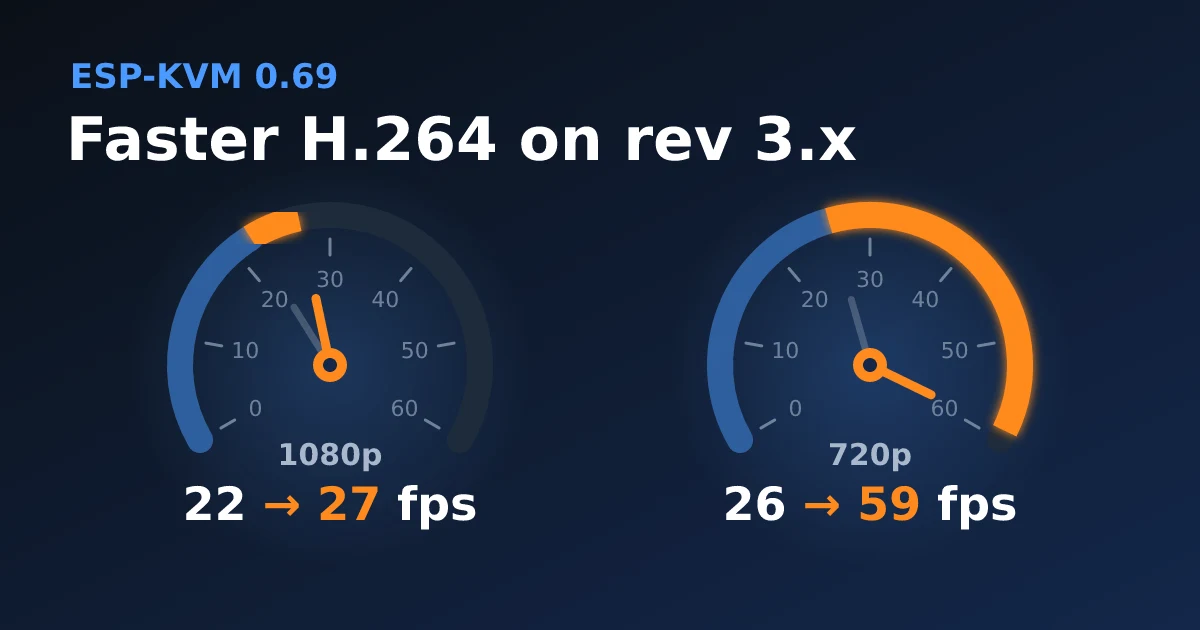
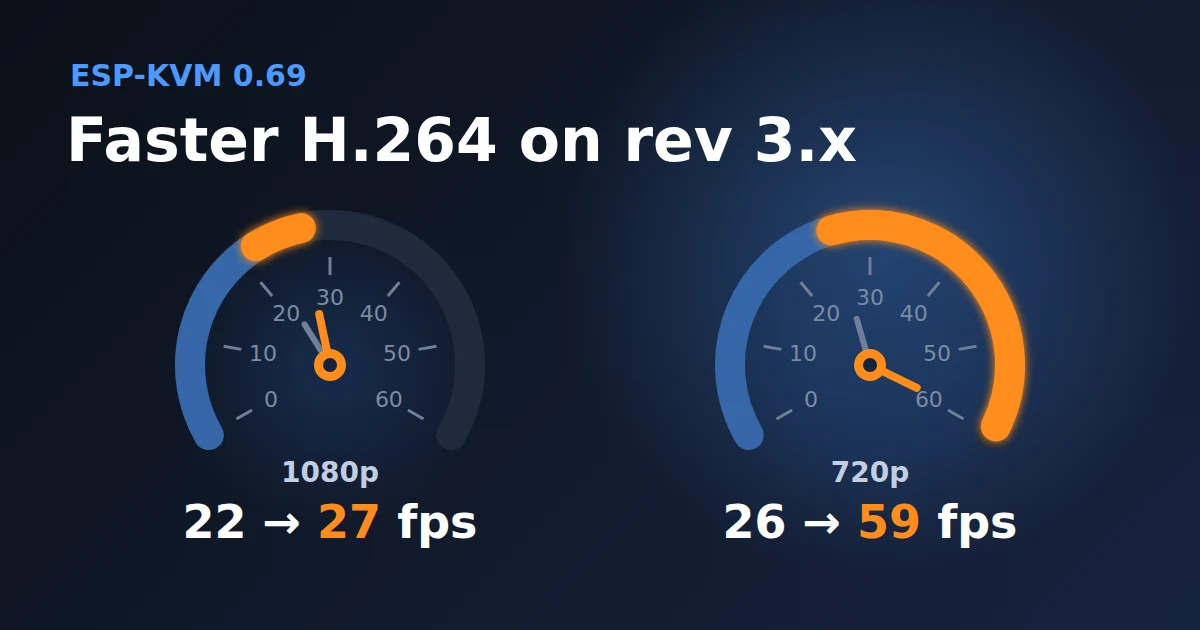
0.86.0 post, JetKVM Mini pages and cases, 0.69 hero redrawn

diff --git a/_pages/features.html b/_pages/features.html
@@ -124,7 +124,7 @@ output: features/index.html
         <tr><td>H.264 over WebRTC</td><td>The console takes H.264 over WebRTC (UDP) when it can, and over the WebSocket when it cannot. A lost packet then costs one frame instead of stalling the picture, which helps on Wi-Fi and mobile links. No STUN or TURN server, and it works over Tailscale.</td></tr>
         <tr><td>HDMI audio <span class="tag tag-new">new</span></td><td>The target's sound in the console, with the picture over WebRTC or on its own socket. On boards with a TC358743: three wires and a ground from the capture board to pins you pick.</td></tr>
         <tr><td>Sound over USB <span class="tag tag-new">new</span></td><td>For a board that cannot take the sound from HDMI, such as the JetKVM Mini: the target gets a USB speaker, "ESP-KVM Speaker", and what it plays comes to the console and the recordings.</td></tr>
-        <tr><td>VNC <span class="tag tag-new">new</span></td><td>The picture, keyboard and mouse in TigerVNC or Remmina, over TLS with VeNCrypt. Off until you set a password. Written by Jan Heil.</td></tr>
+        <tr><td>VNC <span class="tag tag-new">new</span></td><td>The picture, keyboard and mouse in TigerVNC or Remmina, over TLS with VeNCrypt. TigerVNC gets the same H.264 stream as the browser. Off until you set a password. Written by Jan Heil.</td></tr>
         <tr><td>Measured delay</td><td>"Measure the delay" times the whole round trip, mouse to picture: about 120&nbsp;ms at 1080p H.264.</td></tr>
         <tr><td>Several viewers</td><td>Anyone signed in can watch; one is in control at a time, and control can be taken over.</td></tr>
         <tr><td>A viewing token for dashboards</td><td>Opens the stream and the figures, and nothing that can touch the target. Off until you make one.</td></tr>

diff --git a/_partials/style.css b/_partials/style.css
@@ -461,14 +461,19 @@
         text-transform: uppercase;
         color: var(--muted);
       }
+      /* Six to a row, the last row centred: eleven marks make 6 + 5 rather
+         than one left on a line of its own. */
       .works ul {
         display: flex;
         flex-wrap: wrap;
-        justify-content: space-between;
-        gap: 22px 16px;
+        justify-content: center;
+        gap: 28px 16px;
         margin: 0;
         padding: 0;
         list-style: none;
+      }
+      .works li {
+        flex: 0 0 calc((100% - 5 * 16px) / 6);
       }
       .works a {
         display: flex;
@@ -484,8 +489,8 @@
         color: var(--text);
       }
       .works svg {
-        width: 44px;
-        height: 44px;
+        width: 52px;
+        height: 52px;
         fill: currentColor;
       }
       .works span {
@@ -496,6 +501,9 @@
           display: grid;
           grid-template-columns: repeat(3, 1fr);
           gap: 22px 8px;
+        }
+        .works li {
+          flex: none;
         }
         .works svg {
           width: 36px;

diff --git a/_pages/index.html b/_pages/index.html
@@ -1090,6 +1090,7 @@ output: index.html
               <li>JetKVM Mini: tested on a real one, and sound over USB</li>
               <li>Recordings and screenshots to a NAS, by hand or on their own</li>
               <li>A table of which alert goes to which channel</li>
+              <li>A VNC server, in H.264</li>
             </ul>
           </li>
           <li class="tl-now">
@@ -1233,6 +1234,10 @@ output: index.html
               </tr>
               <tr>
                 <td>VPN &mdash; WireGuard or native Tailscale <span class="tnote">(pick one; Tailscale needs no gateway or port-forward)</span></td>
+                <td class="yes"><span class="st st-ok">Works</span></td>
+              </tr>
+              <tr>
+                <td>VNC server <span class="tnote">(TigerVNC over TLS; H.264 to clients that know it, JPEG to the rest)</span></td>
                 <td class="yes"><span class="st st-ok">Works</span></td>
               </tr>
               <tr>

diff --git a/_pages/compare.html b/_pages/compare.html
@@ -442,7 +442,7 @@ output: compare/index.html
     <a href="/boards/jetkvm-mini-w/">Mini W</a> too, made from the pins in that
     firmware. It is tested on a real Mini.
     ESP-KVM is open-source firmware you can flash today onto boards from
-    Waveshare, Espressif, M5Stack, Guition and others. The original JetKVM, on a
+    Waveshare, Espressif, M5Stack, Guition and others. The flagship JetKVM, on a
     Rockchip chip running Linux, is the one to pick for 1080p60 video. Its
     built-in way in from outside is JetKVM Cloud: WebRTC through the company's
     service, signing in with a Google account. That is optional, the cloud's

diff --git a/_boards/jetkvm-mini/index.md b/_boards/jetkvm-mini/index.md
@@ -24,7 +24,7 @@ photo: board.webp
 photo_style: product
 ---
 
-The JetKVM Mini is a small ready-made KVM. Inside is the ESP32-P4X, the chip ESP-KVM runs on, with the same 32 MB of PSRAM and a TC358743 for the HDMI input. The box, the screen and the USB port are already there, so it makes a very nice home for ESP-KVM. Thank you, JetKVM, for building it and for publishing its firmware.
+The JetKVM Mini is a small ready-made KVM. Inside is the ESP32-P4X, the chip ESP-KVM runs on, with the same 32 MB of PSRAM and a TC358743 for the HDMI input. The box, the screen and the USB port are already there, so nothing else is needed. Thank you, JetKVM, for building it and for publishing its firmware.
 
 ESP-KVM is tested on a real Mini: the picture, Ethernet and updates over the network, keyboard and mouse, the screen and its button, the microSD slot and sound. On the [Mini W](/boards/jetkvm-mini-w/) everything but the Wi-Fi is the same hardware. Its Wi-Fi has not run yet: I do not have one.
 
@@ -35,7 +35,7 @@ ESP-KVM is tested on a real Mini: the picture, Ethernet and updates over the net
 - The microSD slot, for virtual media and recordings.
 - Sound over USB: the Mini offers the target a USB speaker, since its HDMI sound is not wired. Turn it on in Settings, Audio.
 - The 240x240 screen, switched on from the first boot for the address and the status.
-- The top button (SW3): a press shows the next page on the screen, holding it turns the screen off or on.
+- The top button (SW3): a press shows the next page on the screen. Holding it turns the screen off or on.
 - The bottom button (SW2): a press opens a menu on the screen, for power on over USB, Wake-on-LAN, a screenshot, a restart and more. Held at start-up it resets the password.
 - Both buttons can do something else in Settings, Buttons.
 
@@ -43,7 +43,7 @@ ESP-KVM is tested on a real Mini: the picture, Ethernet and updates over the net
 
 Things JetKVM's own firmware for the Mini does not have:
 
-- A VNC server, so TigerVNC can connect over TLS, next to the browser.
+- A VNC server. TigerVNC connects to it over TLS, next to the browser console.
 - Recordings, screenshots and a dashcam on the microSD card.
 - Runbooks: steps that type, wait for text on the screen and press keys, by hand or on a schedule.
 - Reading the text off a BIOS or console screen, for runbooks and alerts.
@@ -63,17 +63,17 @@ JetKVM's firmware only takes updates signed by JetKVM, so ESP-KVM goes on over U
 
 ## Back to JetKVM's firmware
 
-Connect the EXT port as above and write your backup back with `esptool.py write_flash 0 jetkvm-mini.bin`. Without a backup, JetKVM has a recovery image for each model on its [recovery page](https://jetkvm.com/docs/advanced-usage/factory-reset-mini).
+Connect the EXT port as above and write the backup to it with `esptool.py write_flash 0 jetkvm-mini.bin`. Without a backup, JetKVM has a recovery image for each model on its [recovery page](https://jetkvm.com/docs/advanced-usage/factory-reset-mini).
 
 ## Questions
 
 ### Can I put custom firmware on a JetKVM Mini?
 
-Yes, over USB. JetKVM's firmware is open source, and its build turns on neither Secure Boot nor flash encryption. The steps above check that on your own unit before anything is written.
+Yes, over USB. JetKVM's firmware for the Mini is open source, at [github.com/jetkvm/mini](https://github.com/jetkvm/mini), and its build turns on neither Secure Boot nor flash encryption. The steps above check that on your own unit before anything is written.
 
-### Does ESP-KVM run on the original JetKVM?
+### Does ESP-KVM run on the flagship JetKVM?
 
-No. The original JetKVM is a Linux computer on a Rockchip RV1106, and ESP-KVM is firmware for the ESP32-P4. JetKVM's own software for it is open source at [github.com/jetkvm/kvm](https://github.com/jetkvm/kvm).
+No. The flagship JetKVM is a Linux computer on a Rockchip RV1106, and ESP-KVM is firmware for the ESP32-P4. Of JetKVM's devices, only the Mini and the Mini W have that chip.
 
 ### What does ESP-KVM add on the Mini?
 
@@ -81,12 +81,12 @@ A VNC server, recordings on the microSD card, runbooks, reading text off the scr
 
 ### Can I go back to JetKVM's firmware?
 
-Yes. Write your backup back, or JetKVM's recovery image, as described above.
+Yes. Write your backup or JetKVM's recovery image to it, as described above.
 
 ## Mini and Mini W
 
 The two differ in the network. The Mini has 100M Ethernet. The [Mini W](/boards/jetkvm-mini-w/) has an ESP32-C5 for Wi-Fi 6 on 2.4 and 5 GHz in its place.
 
-How ESP-KVM and the JetKVM Mini compare today is on the [comparison page](/compare/).
+The [comparison page](/compare/) puts ESP-KVM next to the JetKVM Mini and other KVMs.
 
 ESP-KVM is a separate open-source project. It is not made, sold or supported by JetKVM.

diff --git a/_integrations/vnc/index.md b/_integrations/vnc/index.md
@@ -1,0 +1,48 @@
+---
+name: VNC
+title: ESP-KVM with a VNC client
+page_title: VNC for an ESP32-P4 IP-KVM, TigerVNC over TLS in H.264 - ESP-KVM
+description: Turn on the VNC server and TigerVNC shows the target's screen and drives its keyboard and mouse over TLS, with the same H.264 stream as the browser.
+tip: VNC, with TigerVNC in H.264
+summary: TigerVNC over TLS, with the browser's H.264 stream.
+mark: mark.svg
+order: 11
+link.VNC in the API docs: https://github.com/espkvm/espkvm/blob/main/docs/API.md#vnc
+link.VNC in H.264, the post: /blog/0-86-0-vnc-as-fast-as-the-browser/
+---
+
+The device has a VNC server, written by Jan Heil. A VNC client shows the target's screen and sends it the keyboard and the mouse, next to the browser console or instead of it. It is off by default.
+
+## Setting it up
+
+1. In the console open Settings, Video, VNC server.
+2. Set a password of up to 8 characters. That is a limit of VNC's own sign-in, so use all 8.
+3. Turn on VNC server. The port is 5900.
+4. Point the client at the device's address.
+
+A script can ask `POST /api/v1/vnc/session` for a password that works once, within 60 seconds.
+
+## Clients
+
+TigerVNC gets the same H.264 stream as the browser: 26 fps at 1080p on a JetKVM Mini. It needs a build with H.264, version 1.13 or newer (the Windows builds have it, on Linux it needs FFmpeg), and H.264 as the stream codec on the device: Settings, Video, Picture. Other clients get JPEG, about 20 fps at 1080p on the same Mini.
+
+A client needs Tight encoding for JPEG, and VeNCrypt for TLS. These have both:
+
+| Client | Runs on | Picture | Get it |
+|---|---|---|---|
+| TigerVNC | Windows, Linux, macOS | H.264 or JPEG | [tigervnc.org](https://tigervnc.org/) |
+| TurboVNC | Windows, Linux, macOS | JPEG | [turbovnc.org](https://turbovnc.org/) |
+| Remmina | Linux | JPEG | [remmina.org](https://remmina.org/) |
+| AVNC | Android | JPEG | [F-Droid](https://f-droid.org/packages/com.gaurav.avnc/), [Google Play](https://play.google.com/store/apps/details?id=com.gaurav.avnc) |
+| bVNC | Android | JPEG | [Google Play](https://play.google.com/store/apps/details?id=com.iiordanov.freebVNC), [source](https://github.com/iiordanov/remote-desktop-clients) |
+| MultiVNC | Android | JPEG | [F-Droid](https://f-droid.org/packages/com.coboltforge.dontmind.multivnc/), [Google Play](https://play.google.com/store/apps/details?id=com.coboltforge.dontmind.multivnc) |
+
+RealVNC Viewer and the screen sharing app on a Mac have no Tight encoding, so they cannot connect.
+
+## From outside
+
+VNC is plain TCP on port 5900. It does not find its way through NAT like the browser's WebRTC does. Reach it over Tailscale or WireGuard, both built into the firmware, and keep plain VNC without TLS on your own network.
+
+## One client at a time
+
+A new client that signs in takes over from the one before it, and a wrong password does not end the session. The console lists the VNC client with the other viewers. Clients that come over the device's own hotspot are turned away unless VNC over the hotspot is on.

diff --git a/_boards/jetkvm-mini-w/index.md b/_boards/jetkvm-mini-w/index.md
@@ -26,8 +26,22 @@ photo_style: product
 
 The Mini W is the [JetKVM Mini](/boards/jetkvm-mini/) with an ESP32-C5 for Wi-Fi 6 on 2.4 and 5 GHz instead of the Ethernet port. Everything else is the same box, and the steps before flashing are on the Mini's page.
 
-The firmware is the same ESP-KVM as on the other boards, and the capture, the USB to the target, the screen, the buttons and the microSD slot are the same hardware as on the Mini, where I tested it. Only the Wi-Fi part, the ESP32-C5 with the firmware it ships with, has not run on a Mini W yet: I do not have one. Make the backup from the steps on the [Mini's page](/boards/jetkvm-mini/) first, as with any flashing. At worst the image does not start, and you flash it again over USB.
+The capture, the USB to the target, the screen, the buttons and the microSD slot are the same hardware as on the Mini, where I tested ESP-KVM. Only the Wi-Fi has not run on a Mini W yet: I do not have one. Make the backup from the [Mini's page](/boards/jetkvm-mini/) first. At worst the image does not start, and you flash it again over USB.
 
-On the first boot ESP-KVM opens its own setup hotspot, and the screen shows a code to join it. The C5 keeps the firmware it ships with. If the Wi-Fi does not come up, tell me.
+On the first boot ESP-KVM opens its own setup hotspot, and the screen shows a code to join it. The ESP32-C5 keeps the firmware it ships with. If the Wi-Fi does not come up, tell me.
+
+## What ESP-KVM adds
+
+Things JetKVM's own firmware for the Mini W does not have:
+
+- A VNC server. TigerVNC connects to it over TLS, next to the browser console.
+- Recordings, screenshots and a dashcam on the microSD card.
+- Runbooks: steps that type, wait for text on the screen and press keys, by hand or on a schedule.
+- Reading the text off a BIOS or console screen, for runbooks and alerts.
+- Alerts to Telegram, ntfy, Discord, email or a browser push.
+- WireGuard next to Tailscale.
+- Two-factor sign-in with an authenticator app.
+
+JetKVM's firmware for both models is open source, at [github.com/jetkvm/mini](https://github.com/jetkvm/mini). The flagship JetKVM is a Linux computer on a Rockchip chip, so ESP-KVM does not run on it.
 
 ESP-KVM is a separate open-source project. It is not made, sold or supported by JetKVM.

diff --git a/_posts/2026-11-16-0-86-0-vnc-as-fast-as-the-browser.md b/_posts/2026-11-16-0-86-0-vnc-as-fast-as-the-browser.md
@@ -1,0 +1,34 @@
+---
+title: 0.86.0 - VNC as fast as the browser
+description: TigerVNC now gets the same H.264 stream as the browser console. On a JetKVM Mini at 1080p that is 26 fps instead of 6 to 11, and the browser keeps its frame rate while VNC is connected.
+tags: vnc, video
+date: 2026-11-16 20:00
+image: /assets/blog/0-86-0-vnc-in-h264/hero.webp
+---
+
+In 0.85.0 the VNC server sent the picture as JPEG. On a JetKVM Mini at 1080p that gave 6 to 11 fps over TLS. The device also had to make a JPEG of every frame next to the H.264 stream, so the browser went from 21 to about 15 fps while a VNC client was connected.
+
+That was not a limit of the hardware. PiKVM made an extension to VNC called Open H.264, and TigerVNC supports it. With it the VNC client gets the same H.264 frames as the browser. Nothing is encoded twice.
+
+## The numbers
+
+On a JetKVM Mini at 1080p, over TLS, with the encoder making 26 fps:
+
+- TigerVNC gets 26 fps, every frame the encoder makes.
+- The browser gets 26 fps alone and 25 fps with a VNC client connected at the same time.
+- On my test screen the H.264 stream needed under 1 Mbit/s. JPEG needed about 25.
+
+The 0.85.0 numbers were taken at 1080p50 and these at 1080p30. In both cases the encoder makes about 25 frames a second.
+
+## What you need
+
+- TigerVNC 1.13 or newer with H.264 support. The Windows builds have it. On Linux it needs a build with FFmpeg. TigerVNC picks H.264 by itself when it can.
+- H.264 as the stream codec on the device: Settings, Video, Picture, Stream codec.
+
+A client without H.264 gets JPEG as before, and that got faster too. The end of every frame used to wait for the viewer's reply to the part before it. Over plain VNC on the Mini, JPEG went from 13 to 20 fps.
+
+## Fixed
+
+- A console tab that was signed out, for example after a restart, kept trying to open its keyboard connection every 30 seconds. It now waits for the sign-in.
+
+The full list is in the [changelog](https://github.com/espkvm/espkvm/blob/main/CHANGELOG.md).

diff --git a/_cases/jetkvm-mini-rack-judomuerte/index.md b/_cases/jetkvm-mini-rack-judomuerte/index.md
@@ -1,0 +1,12 @@
+---
+title: JetKVM Mini 1U 10-inch rack mount
+author: Judomuerte
+summary: A 1U panel that holds a JetKVM Mini in a 10-inch rack.
+boards: jetkvm-mini
+photo: case.webp
+photo_style: photo
+photo_credit: Photo by the author, CC BY-SA.
+link.Model on Thingiverse: https://www.thingiverse.com/thing:7435818
+---
+
+The Mini sits in a 1U panel for a 10-inch rack, next to the machines it looks after. Three M2 screws with nuts hold it. Two double-sided adhesive pads on the back press it in place. The author printed it in ABS.
